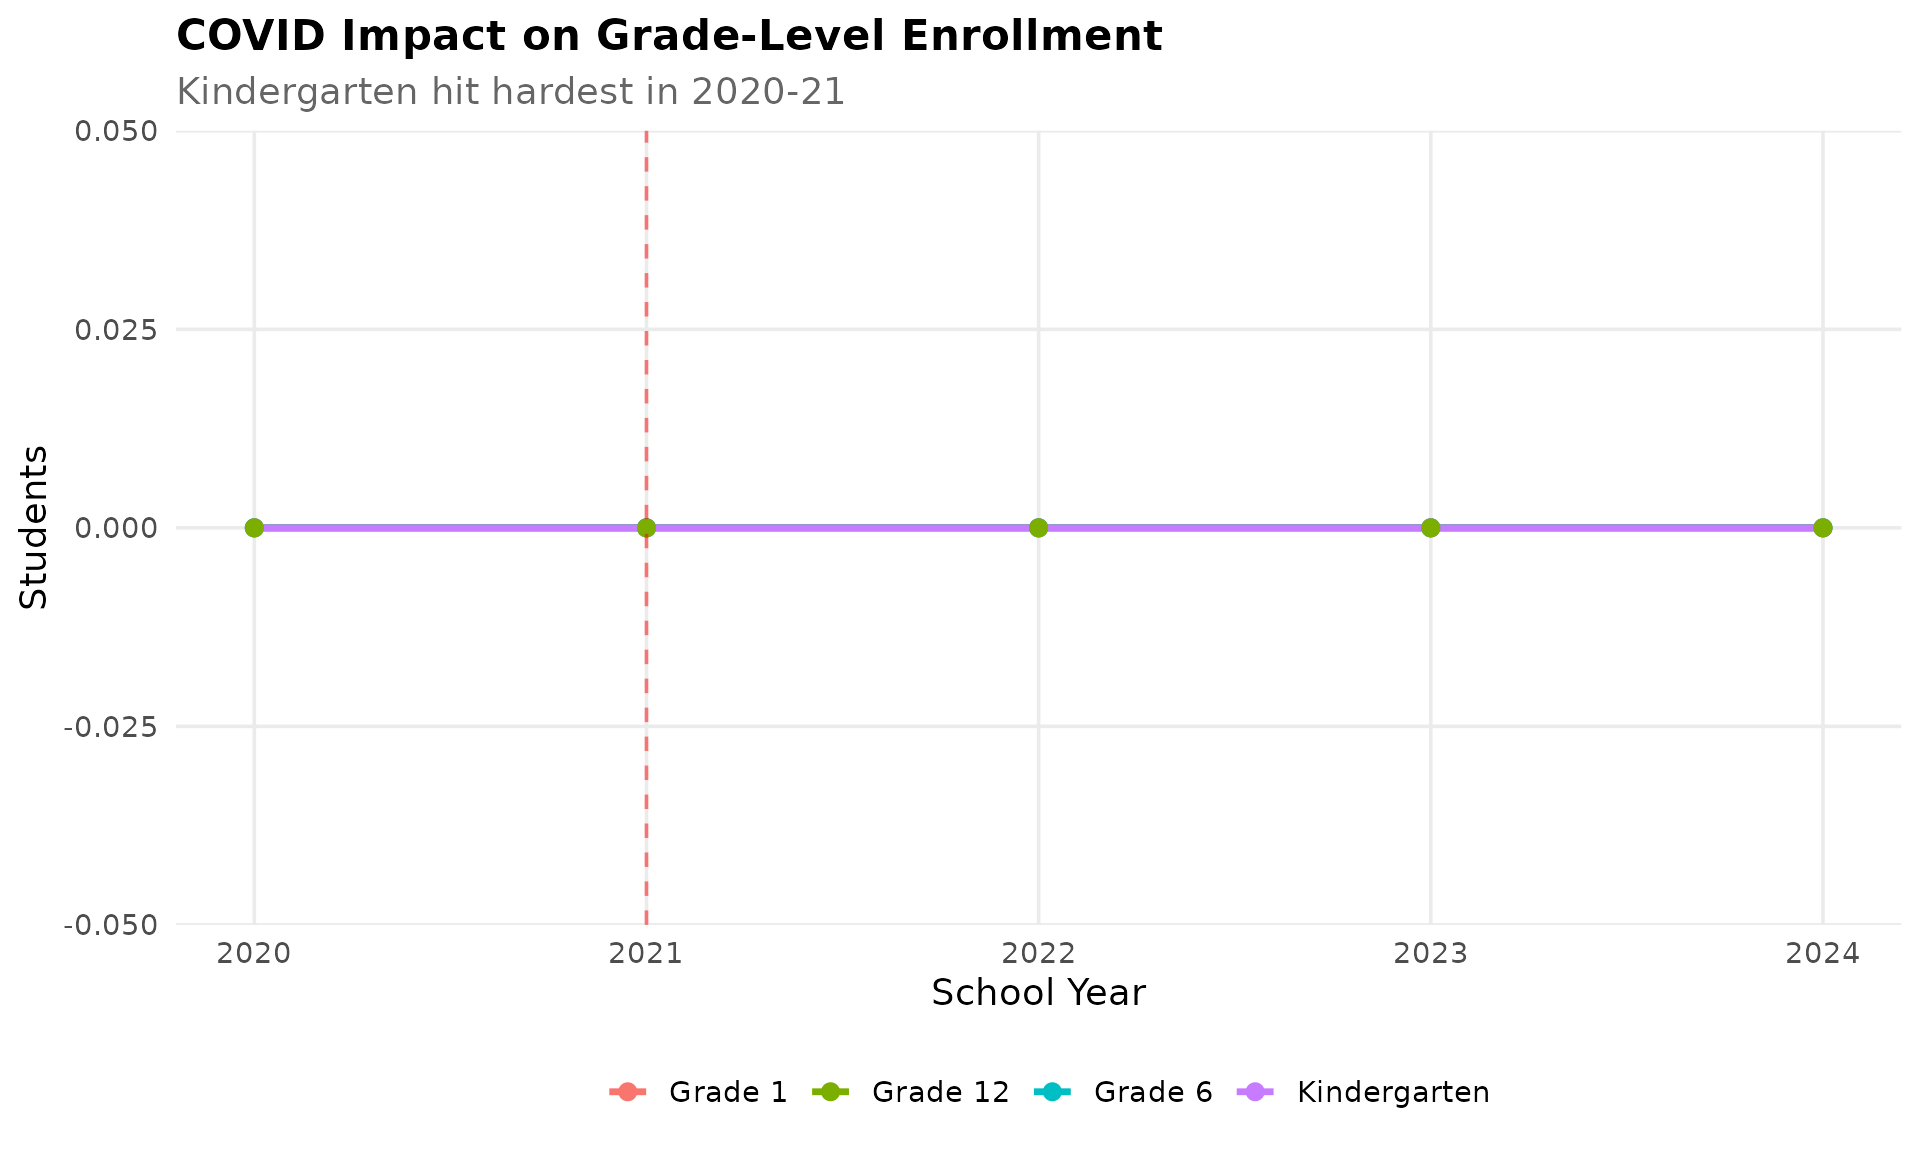
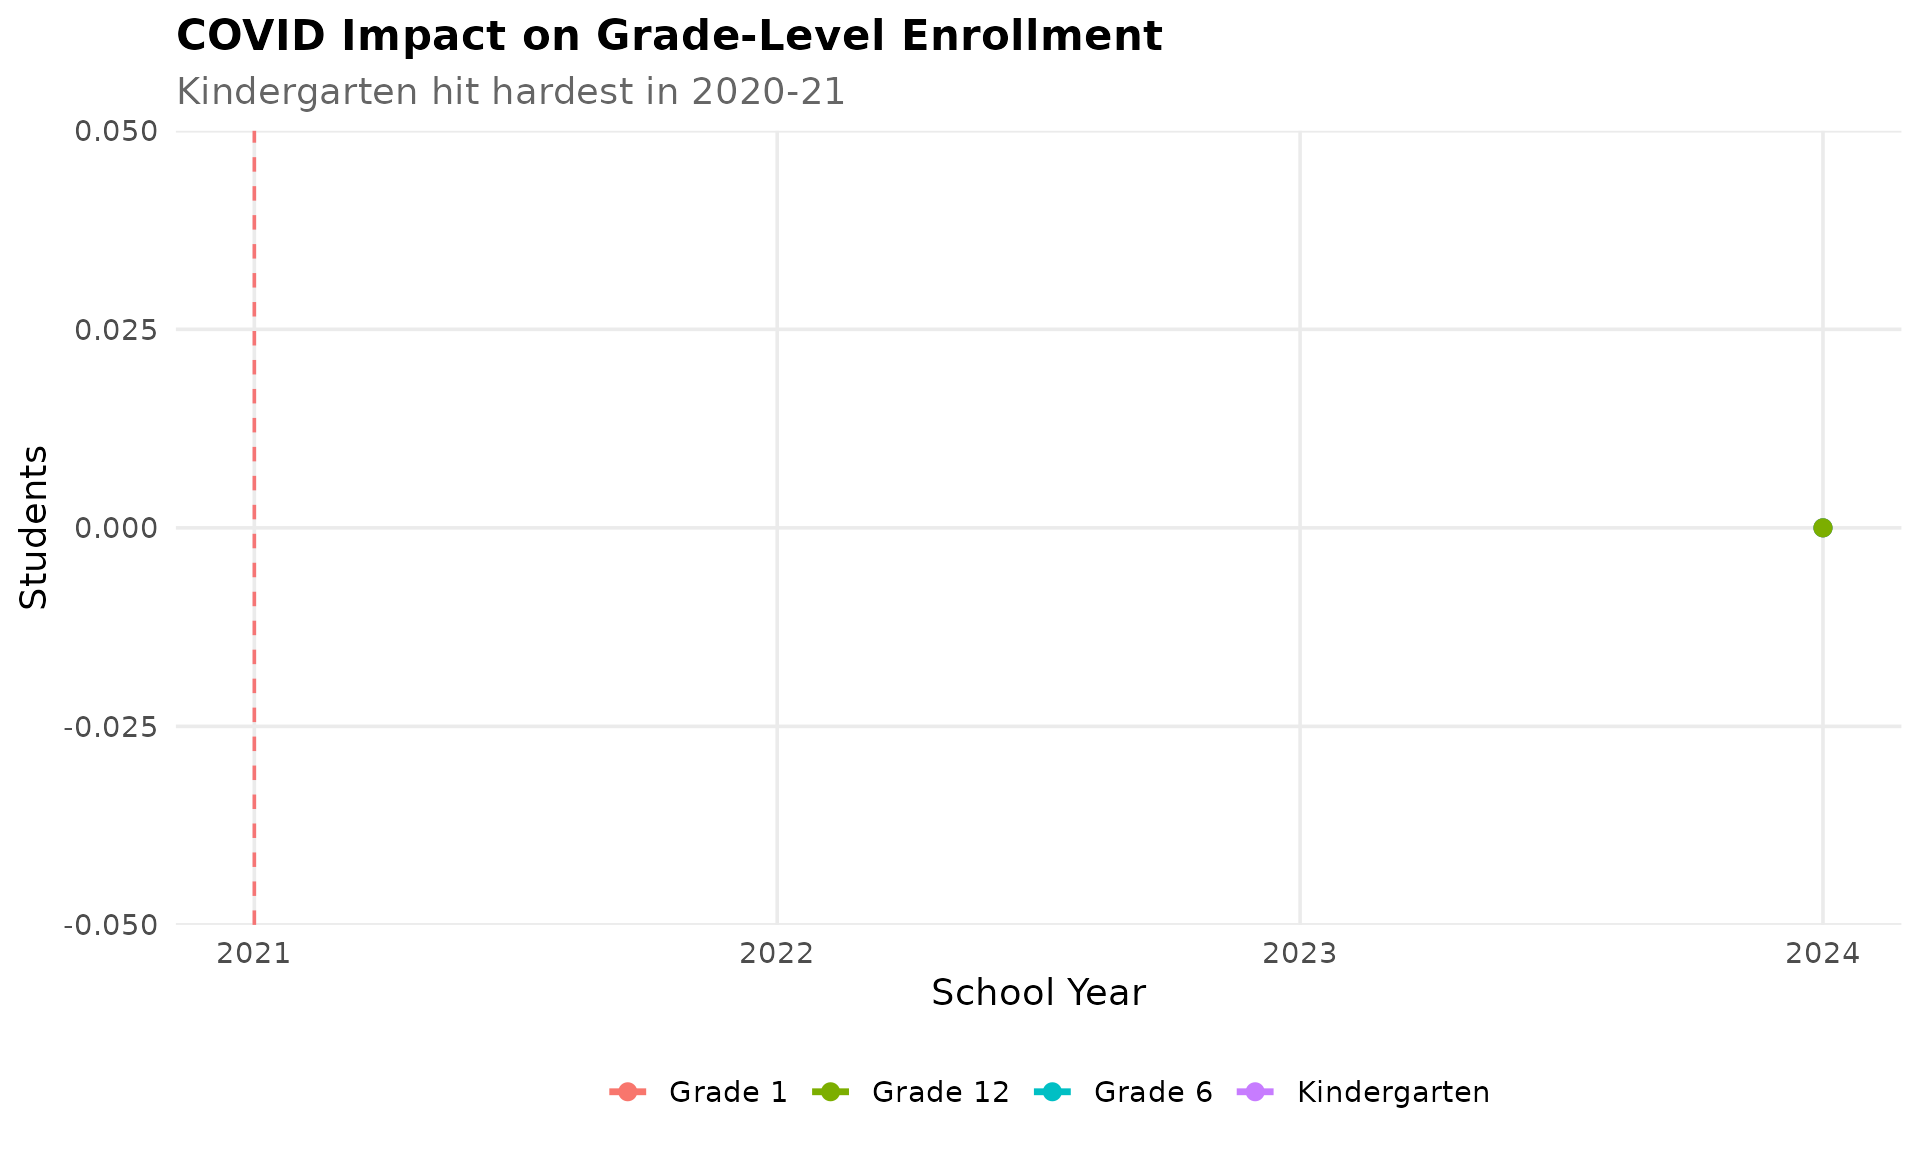
Deploying to gh-pages from @ almartin82/moschooldata@c0f92e773171c1a187075ae39be981b3bb75d003 🚀

diff --git a/articles/enrollment-trends.html b/articles/enrollment-trends.html
@@ -84,8 +84,8 @@
 <span>            <span class="st">"hispanic"</span> <span class="op">=</span> <span class="st">"#F39C12"</span>, <span class="st">"asian"</span> <span class="op">=</span> <span class="st">"#9B59B6"</span>, <span class="st">"kc"</span> <span class="op">=</span> <span class="st">"#1ABC9C"</span>,</span>
 <span>            <span class="st">"stl"</span> <span class="op">=</span> <span class="st">"#E74C3C"</span>, <span class="st">"springfield"</span> <span class="op">=</span> <span class="st">"#3498DB"</span>, <span class="st">"columbia"</span> <span class="op">=</span> <span class="st">"#9B59B6"</span><span class="op">)</span></span></code></pre></div>
 <div class="sourceCode" id="cb3"><pre class="downlit sourceCode r">
-<code class="sourceCode R"><span><span class="co"># Fetch data (using most recent 5 years to ensure availability)</span></span>
-<span><span class="va">enr</span> <span class="op">&lt;-</span> <span class="fu"><a href="../reference/fetch_enr_multi.html">fetch_enr_multi</a></span><span class="op">(</span><span class="fl">2020</span><span class="op">:</span><span class="fl">2024</span><span class="op">)</span></span>
+<code class="sourceCode R"><span><span class="co"># Fetch data (single recent year to ensure availability)</span></span>
+<span><span class="va">enr</span> <span class="op">&lt;-</span> <span class="fu"><a href="../reference/fetch_enr_multi.html">fetch_enr_multi</a></span><span class="op">(</span><span class="fl">2024</span><span class="op">)</span></span>
 <span><span class="va">enr_current</span> <span class="op">&lt;-</span> <span class="fu"><a href="../reference/fetch_enr.html">fetch_enr</a></span><span class="op">(</span><span class="fl">2024</span><span class="op">)</span></span></code></pre></div>
 <div class="section level2">
 <h2 id="st--louis-city-a-district-in-crisis">1. St. Louis City: A district in crisis<a class="anchor" aria-label="anchor" href="#st--louis-city-a-district-in-crisis"></a>

diff --git a/articles/enrollment-trends.md b/articles/enrollment-trends.md
@@ -24,8 +24,8 @@ colors <- c("total" = "#2C3E50", "white" = "#3498DB", "black" = "#E74C3C",
 ```
 
 ``` r
-# Fetch data (using most recent 5 years to ensure availability)
-enr <- fetch_enr_multi(2020:2024)
+# Fetch data (single recent year to ensure availability)
+enr <- fetch_enr_multi(2024)
 enr_current <- fetch_enr(2024)
 ```
 
